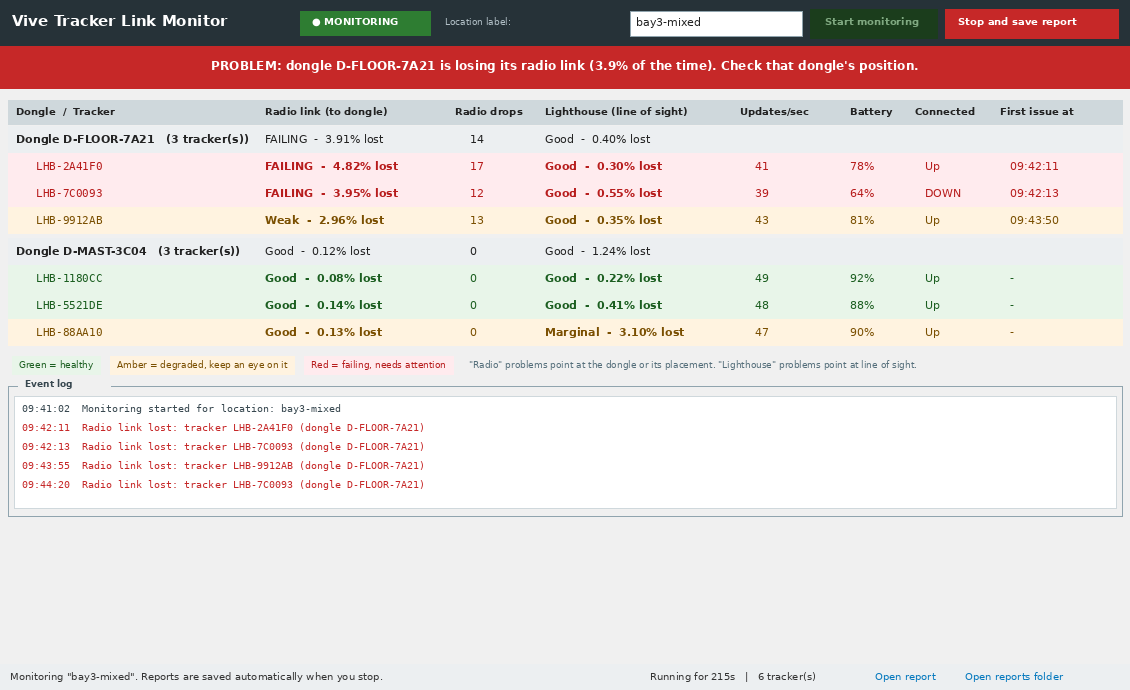
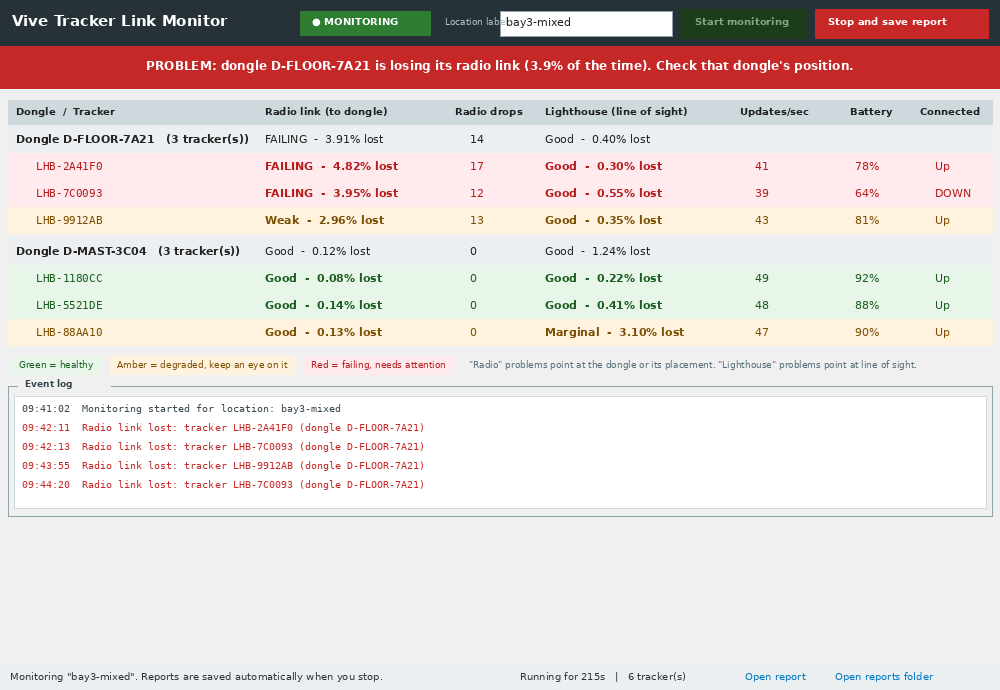
Remove live first-issue column; rely on timestamped events log; fix false stalls
- GUI: drop the 'First issue at' column (the timeline lives in the saved
  files). Keep the reliable FIRST ISSUE TIMES summary in the report.
- Events log: every drop (DROP:) and recovery (RECONNECTED:) is recorded
  with a timestamp and tracker/dongle, giving a complete drop timeline.
- Correctness: only treat a frozen input-packet counter as a stall on
  devices whose counter is actually seen to advance. Plain trackers that
  never bump the counter no longer produce phantom stalls, false 'Radio
  weak' status, or bogus first-issue times; update rate shows n/a instead
  of 0 when unknown.

https://claude.ai/code/session_01UpT8BdbGTx3GLTu1bXJyFb

diff --git a/vive_rf_core.py b/vive_rf_core.py
@@ -87,10 +87,13 @@ class TrackerStat:
         self.out_of_range_samples = 0
         self.rf_loss_samples = 0
 
-        # input packet continuity
+        # input packet continuity. Some trackers never advance the input
+        # packet counter (no buttons), so we only use it for stall/rate
+        # detection on devices where it is actually seen to advance.
         self.last_packet = None
         self.last_packet_time = None
         self.packet_increments = 0
+        self.packet_ever_advanced = False
         self.stall_events = 0
         self._in_stall = False
 
@@ -118,6 +121,9 @@ class TrackerStat:
 
         self.first_seen = time.time()
 
+    def label_or_serial(self):
+        return f"{self.name} ({self.serial})" if self.name else self.serial
+
     def _mark_issue(self, now, kind):
         if self.first_issue_time is None:
             self.first_issue_time = now
@@ -125,11 +131,11 @@ class TrackerStat:
         self.last_issue_time = now
 
     def update(self, pose, packet_num, now, dt):
-        """Fold in one sample. Returns True on a connected->down edge."""
+        """Fold in one sample. Returns 'drop'/'reconnect'/None for the edge."""
         self.samples += 1
         self.win_samples += 1
         connected = bool(pose.bDeviceIsConnected)
-        dropped_edge = False
+        edge = None
 
         if connected:
             self.connected_samples += 1
@@ -147,12 +153,16 @@ class TrackerStat:
                     self.last_packet_time = now
                 elif packet_num != self.last_packet:
                     self.packet_increments += 1
+                    self.packet_ever_advanced = True
                     self.last_packet = packet_num
                     self.last_packet_time = now
                     self._in_stall = False
-                elif (self.last_packet_time is not None
+                elif (self.packet_ever_advanced
+                      and self.last_packet_time is not None
                       and (now - self.last_packet_time) * 1000.0 > STALL_MS
                       and not self._in_stall):
+                    # Only meaningful for devices that DO stream a packet
+                    # counter; otherwise a static counter is normal, not a fault.
                     self.stall_events += 1
                     self.win_stalls += 1
                     self._in_stall = True
@@ -166,7 +176,7 @@ class TrackerStat:
             self.disconnect_start = now
             self.disconnect_events += 1
             self.win_drops += 1
-            dropped_edge = True
+            edge = "drop"
             self._mark_issue(now, "drop")
         elif connected and not self.was_connected:
             if self.disconnect_start is not None:
@@ -175,8 +185,9 @@ class TrackerStat:
                 self.longest_disconnect_s = max(self.longest_disconnect_s, dur)
             self.in_disconnect = False
             self.disconnect_start = None
+            edge = "reconnect"
         self.was_connected = connected
-        return dropped_edge
+        return edge
 
     def finalize(self, now):
         if self.in_disconnect and self.disconnect_start is not None:
@@ -195,8 +206,10 @@ class TrackerStat:
 
     @property
     def update_hz(self):
-        return (self.packet_increments / self.connected_elapsed_s
-                if self.connected_elapsed_s > 0.2 else 0.0)
+        # Unknown if the device never advances its packet counter.
+        if not self.packet_ever_advanced or self.connected_elapsed_s <= 0.2:
+            return None
+        return self.packet_increments / self.connected_elapsed_s
 
     def classify(self):
         """Return (label, severity, family) for the dominant problem."""
@@ -660,13 +673,17 @@ class RFMonitor(threading.Thread):
             updates.append((idx, packet_num, battery))
 
         dropped_by_dongle = defaultdict(list)
+        reconnected = []
         with self._lock:
             for idx, packet_num, battery in updates:
                 st = self._ensure_tracker(idx, now)
                 if st is None:
                     continue
-                if st.update(poses[idx], packet_num, now, dt):
+                edge = st.update(poses[idx], packet_num, now, dt)
+                if edge == "drop":
                     dropped_by_dongle[st.dongle].append(st.serial)
+                elif edge == "reconnect":
+                    reconnected.append((st.label_or_serial(), st.dongle))
                 if battery is not None:
                     st.battery = battery
 
@@ -691,18 +708,25 @@ class RFMonitor(threading.Thread):
                 write_tracker_names_template(
                     self.names_path, sorted(self.trackers), self.names)
 
+        name_of = {st.serial: st.label_or_serial()
+                   for st in self.trackers.values()}
         for dongle, dropped in dropped_by_dongle.items():
             members = dongle_members.get(dongle, [])
             all_down = members and all(not m.was_connected for m in members)
-            tlist = ", ".join(sorted(dropped))
+            tlist = ", ".join(name_of.get(s, s) for s in sorted(dropped))
             if all_down and len(members) > 1:
                 self._notify("alert",
-                             f"All {len(members)} trackers on dongle {dongle} "
-                             f"lost their radio link at the same time")
+                             f"DROP: all {len(members)} trackers on dongle "
+                             f"{dongle} lost their radio link at the same time "
+                             f"({tlist})")
             else:
                 self._notify("alert",
-                             f"Radio link lost: tracker {tlist} "
+                             f"DROP: radio link lost - {tlist} "
                              f"(dongle {dongle})")
+        for label, dongle in reconnected:
+            self._notify("info",
+                         f"RECONNECTED: radio link restored - {label} "
+                         f"(dongle {dongle})")
 
     def _open_logs(self):
         if not self.enable_log:
@@ -750,7 +774,7 @@ class RFMonitor(threading.Thread):
                 f"{r['rf_loss_pct']:.3f}", f"{r['optical_loss_pct']:.3f}",
                 r["disconnect_events"], r["stall_events"],
                 f"{r['longest_disconnect_s']:.2f}",
-                f"{r['update_hz']:.1f}",
+                f"{r['update_hz']:.1f}" if r["update_hz"] is not None else "",
                 f"{r['battery']:.0f}" if r["battery"] is not None else "",
             ])
         self._csv_file.flush()

diff --git a/vive_dongle_gui.py b/vive_dongle_gui.py
@@ -38,8 +38,7 @@ COLUMNS = (
     ("optic",   "Lighthouse (line of sight)",    170, "w"),
     ("rate",    "Updates/sec",                    90, "center"),
     ("batt",    "Battery",                        70, "center"),
-    ("link",    "Connected",                      80, "center"),
-    ("first",   "First issue at",                 95, "center"),
+    ("link",    "Connected",                      90, "center"),
 )
 
 LEGEND = (
@@ -422,7 +421,7 @@ class MonitorApp:
         if self._census_node is None:
             self._census_node = self.tree.insert(
                 "", "end", text="Devices SteamVR can see (no trackers yet)",
-                values=("", "", "", "", "", "", ""), open=True,
+                values=("", "", "", "", "", ""), open=True,
                 tags=("dongle",))
         existing = set(self.tree.get_children(self._census_node))
         wanted = set()
@@ -431,7 +430,7 @@ class MonitorApp:
             wanted.add(iid)
             dongle = d["dongle"] or "(none)"
             vals = (d["class"], "", f"dongle: {dongle}", "", "",
-                    "Up" if d["connected"] else "DOWN", "")
+                    "Up" if d["connected"] else "DOWN")
             text = "    " + (d["serial"] or d["model"] or f"index {d['index']}")
             if self.tree.exists(iid):
                 self.tree.item(iid, text=text, values=vals)
@@ -453,7 +452,7 @@ class MonitorApp:
             d_vals = (f"{rf_word}  -  {a['rf_loss_pct']:.2f}% lost",
                       a["dropouts"],
                       f"{op_word}  -  {a['optical_loss_pct']:.2f}% lost",
-                      "", "", "", "")
+                      "", "", "")
             node = self._dongle_nodes.get(dongle)
             if node is None:
                 node = self.tree.insert("", "end", text=d_text, values=d_vals,
@@ -469,13 +468,14 @@ class MonitorApp:
                         else "?")
                 rf_word, _ = core.rf_verdict(r["rf_loss_pct"])
                 op_word, _ = core.optical_verdict(r["optical_loss_pct"])
+                hz = ("n/a" if r["update_hz"] is None
+                      else f"{r['update_hz']:.0f}")
                 vals = (f"{rf_word}  -  {r['rf_loss_pct']:.2f}% lost",
                         r["disconnect_events"],
                         f"{op_word}  -  {r['optical_loss_pct']:.2f}% lost",
-                        f"{r['update_hz']:.0f}",
+                        hz,
                         batt,
-                        "Up" if r["connected"] else "DOWN",
-                        core.fmt_clock(r.get("first_issue_time")))
+                        "Up" if r["connected"] else "DOWN")
                 name = r.get("name")
                 label = (f"{name}  ({r['serial']})" if name
                          else r["serial"])

diff --git a/vive_dongle_monitor.py b/vive_dongle_monitor.py
@@ -95,8 +95,10 @@ def render(snap, site, recent_notes):
                        f"  dropouts {r['disconnect_events']:<3} "
                        f"stalls {r['stall_events']:<3} "
                        f"longest {r['longest_disconnect_s']:4.1f}s")
+            hz = (f"{r['update_hz']:5.1f}Hz" if r["update_hz"] is not None
+                  else "  n/a ")
             out.append(f"    optic: {op_txt}"
-                       f"  rate {r['update_hz']:5.1f}Hz  batt {batt}")
+                       f"  rate {hz}  batt {batt}")
         out.append("")
 
     if recent_notes:

diff --git a/README.md b/README.md
@@ -75,8 +75,11 @@ All files are written to a `logs\` folder created next to the executable.
    `docs/sample_report.txt` shows an example.
 3. **CSV time series** - `logs/<site>_<timestamp>_series.csv`, one row per
    tracker per second. For Excel, pandas or Grafana (see below).
-4. **Event log** - `logs/<site>_<timestamp>_events.log`, timestamped
-   link-loss events, with the text report appended at the end.
+4. **Event log** - `logs/<site>_<timestamp>_events.log`. Every radio drop
+   (`DROP:`) and recovery (`RECONNECTED:`) is written here with a full
+   timestamp and the tracker/dongle involved, so it doubles as a timeline of
+   exactly when each link went down and came back. The text report is
+   appended at the end.
 
 ### Importing into Grafana
 
